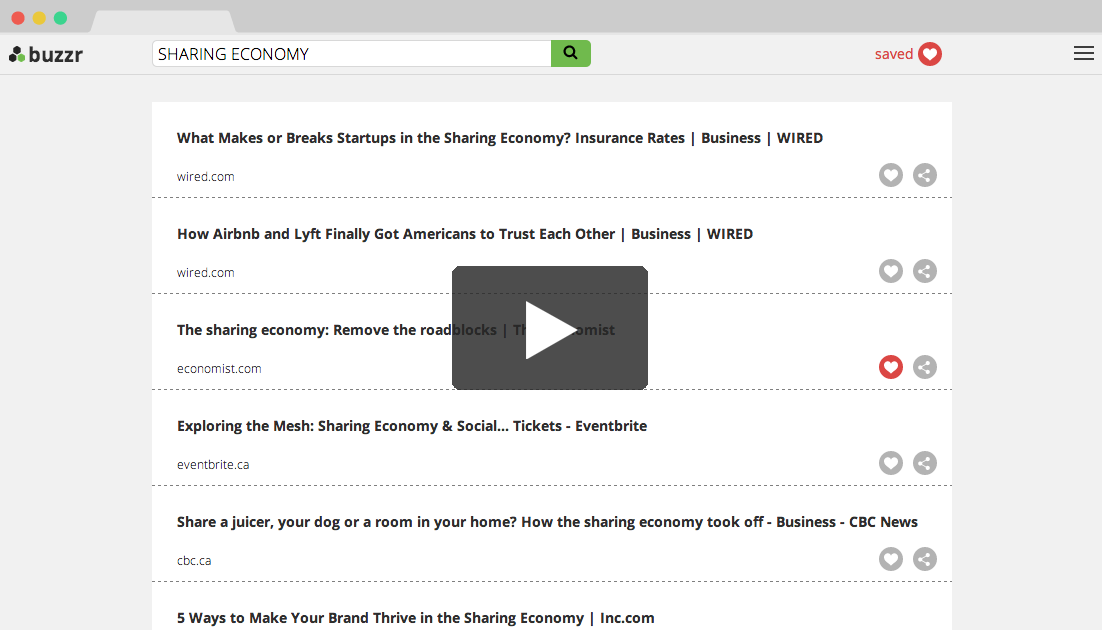
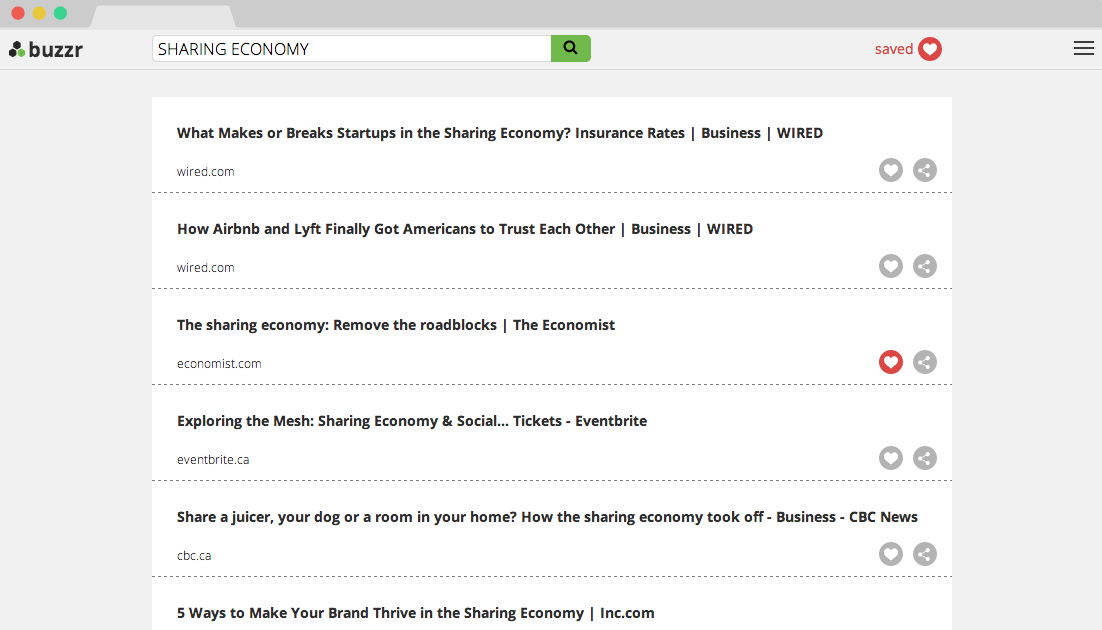
remove link to video

diff --git a/public/js/application.js b/public/js/application.js
@@ -1,1 +1,1 @@
-angular.module("app",["ngResource","ngRoute","angular-loading-bar"]),angular.module("app").config(["$routeProvider","$locationProvider",function(a,b){"use strict";var c={user:{auth:["appAuth",function(a){return a.authorizeLoggedInUserForRoute()}]}};b.html5Mode(!0),a.when("/",{templateUrl:"/partials/pages/landingpage",controller:"appPagesCtrl"}).when("/terms",{templateUrl:"/partials/pages/terms",controller:"appPagesCtrl"}).when("/login",{templateUrl:"/partials/account/login",controller:"appLoginCtrl"}).when("/join",{templateUrl:"/partials/account/join",controller:"appJoinCtrl"}),a.when("/tweet4me",{templateUrl:"/partials/tweet4me/home",controller:"appTweet4meCtrl"}).when("/tweet4me/join",{templateUrl:"/partials/tweet4me/join",controller:"appTweet4meJoinCtrl"}).when("/tweet4me/feed",{templateUrl:"/partials/tweet4me/main",controller:"appTweet4meFeedCtrl"}).when("/tweet4me/pricing",{templateUrl:"/partials/tweet4me/pricing",controller:"appTweet4meCtrl"}),a.when("/buffer",{templateUrl:"/partials/buffer/home",controller:"appBufferCtrl"}).when("/buffer/pricing",{templateUrl:"/partials/buffer/pricing",controller:"appBufferCtrl"}).when("/buffer/failure",{templateUrl:"/partials/buffer/failure",controller:"appBufferCtrl"}).when("/buffer/settings",{templateUrl:"/partials/buffer/settings",controller:"appBufferCtrl"}),a.when("/search",{templateUrl:"/partials/pages/home",controller:"appHomeCtrl"}).when("/:id",{templateUrl:"/partials/main/main",controller:"appMainCtrl"}).when("/account/readlater",{templateUrl:"/partials/readlater/readlater",controller:"appReadlaterCtrl",resolve:c.user}).when("/account/settings",{templateUrl:"/partials/account/settings",controller:"appSettingsCtrl",resolve:c.user})}]),angular.module("app").run(["$rootScope","$location",function(a,b){"use strict";a.$on("$routeChangeSuccess",function(){window.ga("send","pageview",b.path())}),a.$on("$routeChangeError",function(a,c,d,e){"not authorized"===e&&b.path("/")})}]),angular.module("app").factory("AppUser",["$resource","$rootScope",function(a,b){"use strict";var c=a("/api/users/:id",{_id:"@id"},{update:{method:"PUT",isArray:!1}});return c.prototype.isAdmin=function(){return this.roles&&this.roles.indexOf("admin")>-1},c.prototype.addBuzzr=function(a){this.buzzrs&&-1===this.buzzrs.indexOf(a)&&(this.buzzrs.push(a),this.$update(),b.$broadcast("buzzrsChanged"))},c.prototype.removeBuzzr=function(a){var c=this.buzzrs.indexOf(a);c>-1&&(this.buzzrs.splice(c,1),this.$update(),b.$broadcast("buzzrsChanged"))},c.prototype.indexOfSavedLink=function(a){var b=-1;return this.readlater.forEach(function(c,d){c.url===a&&(b=d)}),b},c.prototype.saveLink=function(a){return this.indexOfSavedLink(a.url)>-1?(this.removeSavedLink(a.url),!1):(this.recordActivity("saved",a.url,a.topic),this.readlater.push(a),this.$update(),b.$broadcast("readlaterChanged"),!0)},c.prototype.removeSavedLink=function(a){var c=this.indexOfSavedLink(a);c>-1&&(this.readlater.splice(c,1),this.$update(),b.$broadcast("readlaterChanged"))},c.prototype.removeLink=function(a,c){this.recordActivity("removed",a,c),this.$update(),b.$broadcast("removedLink")},c.prototype.trackView=function(a,b){this.recordActivity("viewed",a,b),this.$update()},c.prototype.trackShare=function(a,b){this.recordActivity("shared",a,b),this.$update()},c.prototype.recordActivity=function(a,b,c){var d=-1;this.activities.forEach(function(a,b){a.topic===c&&(d=b)}),-1===d&&(this.activities.push({topic:c,removed:[],viewed:[],saved:[],shared:[]}),d=0),this.activities[d][a].push(b)},c}]),angular.module("app").factory("appAuth",["$http","$q","appIdentity","AppUser",function(a,b,c,d){"use strict";return{authenticateUser:function(e,f){var g=b.defer();return a.post("/login",{email:e,password:f}).then(function(a){if(a.data.success){var b=new d;angular.extend(b,a.data.user),c.currentUser=b,g.resolve(!0)}else g.resolve(!1)}),g.promise},createUser:function(a){var e=new d(a),f=b.defer();return e.$save().then(function(){c.currentUser=e,f.resolve(!0)},function(a){f.reject(a.data.reason)}),f.promise},updateCurrentUser:function(a){var d=b.defer();return a.$update().then(function(){c.currentUser=a,d.resolve(!0)},function(a){d.reject(a.data.reason)}),d.promise},logoutUser:function(){var d=b.defer();return a.post("/logout",{logout:!0}).then(function(){c.currentUser=void 0,d.resolve(!0)}),d.promise},authorizeCurrentUserForRoute:function(){return c.isAuthorized("admin")?!0:b.reject("not authorized")},authorizeLoggedInUserForRoute:function(){return c.isAuthenticated()?!0:b.reject("not authorized")}}}]),angular.module("app").factory("appIdentity",["$window","AppUser",function(a,b){"use strict";var c;return a.bootstrappedUser&&(c=new b,angular.extend(c,a.bootstrappedUser)),{currentUser:c,isAuthenticated:function(){return!!this.currentUser},isAuthorized:function(a){return!!this.currentUser&&this.currentUser.roles.indexOf(a)>-1}}}]),angular.module("app").controller("appJoinCtrl",["$scope","$location","appIdentity","appAuth","appNotifier",function(a,b,c,d,e){"use strict";a.signup=function(){var c={email:a.email,password:a.password};d.createUser(c).then(function(){b.path("/search")},function(b){e.error(b,a)})}}]),angular.module("app").controller("appLoginCtrl",["$scope","$location","appAuth","appNotifier",function(a,b,c,d){"use strict";a.signin=function(){c.authenticateUser(a.email,a.password).then(function(c){c?b.path("/search"):d.error("email/password combination incorrect",a)})}}]),angular.module("app").controller("appSettingsCtrl",["$scope","$location","$http","appAuth","appIdentity","appNotifier",function(a,b,c,d,e,f){"use strict";a.currentUser=angular.copy(e.currentUser),a.email={valid:e.currentUser.email.match(/^[\S]+@[\S]+\.[\S]+$/)},a.email.valid||(a.currentUser.email=""),a.update=function(){d.updateCurrentUser(a.currentUser).then(function(){return a.email.valid?void f.notify("Your account has been updated",a):b.path("/search")},function(b){f.error(b,a)})}}]),angular.module("app").controller("appAdminAddTweetCtrl",["$scope","$http",function(a,b){"use strict";a.tweet={},a.topics=[],a.t4ms=window.bootstrappedTweet4Mes,a.updateTopics=function(){a.t4ms.forEach(function(b){b.user===a.tweet.email&&(a.topics=b.topics)})},a.showTopic=function(){return!!a.tweet.email},a.showTweetForm=function(){return!!a.tweet.topic},a.addTweet=function(){var c=a.tweet;b.post("/api/tweet4me/"+c.email+"/addTweet",{tweet:c}).then(function(){window.alert("Tweet Added!"),a.tweet.url="",a.tweet.text=""},function(){window.alert("Sorry, something went wrong! Please try again!")})}}]),angular.module("app").controller("appAdminBuzzrsCtrl",["$scope","$http","$window",function(a,b,c){"use strict";a.buzzrs=[],b.get("/api/buzzrs").then(function(b){b.data.buzzrs?a.buzzrs=b.data.buzzrs:c.alert("$http error")})}]),angular.module("app").controller("appAdminErrorsCtrl",["$scope","$http","$window",function(a,b,c){"use strict";a.socketErrors=[],a.titleErrors=[],b.get("/api/errors").then(function(b){b.data.titleErrors?(a.socketErrors=b.data.socketErrors,a.titleErrors=b.data.titleErrors):c.alert("$http error")})}]),angular.module("app").controller("appAdminSendTweet4meCtrl",["$scope","$http",function(a,b){"use strict";a.t4ms=window.bootstrappedTweet4Mes,a.sendEmail=function(){b.post("/api/tweet4me/"+a.email+"/sendEmail",{}).then(function(){window.alert("Email sent!")},function(){window.alert("Sorry, something went wrong! Please try again!")})}}]),angular.module("app").controller("appAdminUsersCtrl",["$scope","AppUser",function(a,b){"use strict";a.users=b.query()}]),angular.module("app").controller("appBufferCtrl",["$scope","appFeedback",function(a,b){"use strict";a.toggleFeedback=function(){b.toggle()}}]),function(){"use strict";angular.module("angular-loading-bar",["chieffancypants.loadingBar"]),angular.module("chieffancypants.loadingBar",[]).config(["$httpProvider",function(a){var b=["$q","$cacheFactory","$timeout","$rootScope","cfpLoadingBar",function(b,c,d,e,f){function g(){d.cancel(i),f.complete(),k=0,j=0}function h(b){var d,e=a.defaults;if("GET"!==b.method||b.cache===!1)return b.cached=!1,!1;d=b.cache===!0&&void 0===e.cache?c.get("$http"):void 0!==e.cache?e.cache:b.cache;var f=void 0!==d?void 0!==d.get(b.url):!1;return void 0!==b.cached&&f!==b.cached?b.cached:(b.cached=f,f)}var i,j=0,k=0,l=f.latencyThreshold;return{request:function(a){return a.ignoreLoadingBar||h(a)||(e.$broadcast("cfpLoadingBar:loading",{url:a.url}),0===j&&(i=d(function(){f.start()},l)),j++,f.set(k/j)),a},response:function(a){return h(a.config)||(k++,e.$broadcast("cfpLoadingBar:loaded",{url:a.config.url}),k>=j?g():f.set(k/j)),a},responseError:function(a){return h(a.config)||(k++,e.$broadcast("cfpLoadingBar:loaded",{url:a.config.url}),k>=j?g():f.set(k/j)),b.reject(a)}}}];a.interceptors.push(b)}]).provider("cfpLoadingBar",function(){this.includeSpinner=!0,this.includeBar=!0,this.latencyThreshold=100,this.startSize=.02,this.parentSelector="body",this.$get=["$document","$timeout","$animate","$rootScope",function(a,b,c,d){function e(){b.cancel(k),q||(d.$broadcast("cfpLoadingBar:started"),q=!0,t&&c.enter(n,m),s&&c.enter(p,m),f(u))}function f(a){if(q){var c=100*a+"%";o.css("width",c),r=a,b.cancel(j),j=b(function(){g()},250)}}function g(){if(!(h()>=1)){var a=0,b=h();a=b>=0&&.25>b?(3*Math.random()+3)/100:b>=.25&&.65>b?3*Math.random()/100:b>=.65&&.9>b?2*Math.random()/100:b>=.9&&.99>b?.005:0;var c=h()+a;f(c)}}function h(){return r}function i(){d.$broadcast("cfpLoadingBar:completed"),f(1),k=b(function(){c.leave(n,function(){r=0,q=!1}),c.leave(p)},500)}var j,k,l=this.parentSelector,m=a.find(l),n=angular.element('<div id="loading-bar"><div class="bar"><div class="peg"></div></div></div>'),o=n.find("div").eq(0),p=angular.element('<div id="loading-bar-spinner"><div class="spinner-icon"></div></div>'),q=!1,r=0,s=this.includeSpinner,t=this.includeBar,u=this.startSize;return{start:e,set:f,status:h,inc:g,complete:i,includeSpinner:this.includeSpinner,latencyThreshold:this.latencyThreshold,parentSelector:this.parentSelector,startSize:this.startSize}}]})}(),angular.module("app").factory("appIsMobile",function(){"use strict";var a={Android:function(){return navigator.userAgent.match(/Android/i)?!0:!1},BlackBerry:function(){return navigator.userAgent.match(/BlackBerry/i)?!0:!1},iOS:function(){return navigator.userAgent.match(/iPhone|iPad|iPod/i)?!0:!1},Windows:function(){return navigator.userAgent.match(/IEMobile/i)?!0:!1},any:function(){return a.Android()||a.BlackBerry()||a.iOS()||a.Windows()}};return a}),angular.module("app").factory("appNotifier",function(){"use strict";return{notify:function(a,b){b.notifier={},b.notifier.notice=a,setTimeout(function(){b.notifier.notice="",b.$digest()},4e3)},error:function(a,b){b.notifier={},b.notifier.error=a,setTimeout(function(){b.notifier.error="",b.$digest()},4e3)}}}),angular.module("app").controller("appSocialHeaderCtrl",["$scope","$location",function(a,b){"use strict";var c=["/","/tweet4me","/tweet4me/pricing","/tweet4me/join","/terms"];a.showSocialHeader=function(){return c.indexOf(b.path())>-1}}]),angular.module("app").factory("appTopics",["$window",function(a){"use strict";var b=[];return a.bootstrappedTopics&&(b=a.bootstrappedTopics),b}]),String.prototype.trunc=function(a){"use strict";return this.length>a?this.substr(0,a-1)+"...":this},angular.module("app").factory("appFeedback",["$rootScope",function(a){"use strict";return{toggle:function(){a.$broadcast("toggleFeedback")}}}]),angular.module("app").controller("appFeedbackCtrl",["$scope","$location","$window","$http","appIdentity","appNotifier",function(a,b,c,d,e,f){"use strict";a.success=!1,a.show=!1,a.feedback={},a.feedback.userAgent=c.navigator.userAgent,e.isAuthenticated()&&(a.feedback.name=e.currentUser.name,a.feedback.email=e.currentUser.email),a.send=function(){a.feedback.currentPath=b.path(),d.post("/api/feedback",a.feedback).then(function(b){b.data.success?a.success=!0:f.error(b.data.err||"unknown error",a)},function(b){f.error("error "+b.status+" occurred - please email help@buzzr.io",a)})},a.toggle=function(){a.show=!a.show},a.$on("toggleFeedback",function(){a.toggle()})}]),angular.module("app").controller("appHeaderCtrl",["$scope","$rootScope","$location","appIdentity","appSidebar",function(a,b,c,d,e){"use strict";a.isLoggedIn=function(){return d.isAuthenticated()&&!d.currentUser.bufferUser},a.toggleSidebar=function(){e.toggle()},b.$on("toggleSidebar",function(){a.open=!a.open,a.$$phase||a.$digest()}),a.showLogo=function(){var a=["/","/search","/login","/tweet4me","/about","/join","/terms"];return-1===a.indexOf(c.path())}}]),angular.module("app").factory("appBuzzr",["$http","$route","appProcessLinks",function(a,b,c){"use strict";function d(a){a.errorMessage="Oh no, Buzzr did not find anything recent on this topic :( Please come back later and try again!",a.status="error"}function e(a){var c=setInterval(function(){a.$apply(function(){a.countDown-=1,a.countDown<=0&&(a.countDown=0,b.reload(),clearInterval(c))})},1e3)}function f(a,b){a.errorMessage=b,a.links=[],a.status="error"}var g={};return g.updateFeed=function(b){a.get("/api/buzzrs/refresh/"+b.searchText.trim()).then(function(a){var g=a.data.links;return a.data.err?void f(b,a.data.err):a.data.updating?(b.status="updating",void e(b)):0===g.length?d(b):(c.process(b,g),void(b.status="feeding"))},function(){f(b,"Sorry, something went wrong! Please try again!")})},g.startFeed=function(b){a.get("/api/buzzrs/"+b.searchText.trim()).then(function(a){var g=a.data.links;if(a.data.err)return void f(b,a.data.err);if(g){if(0===g.length)return d(b);c.process(b,g),b.status="feeding"}else b.status="creating",e(b)},function(){f(b,"Sorry, something went wrong! Please try again!")})},g}]),angular.module("app").controller("appMainCtrl",["$scope","$routeParams","$location","appIdentity","appProcessLinks","appSidebar","appFeedback","appBuzzr",function(a,b,c,d,e,f,g,h){"use strict";a.countDown=18,a.links=[],a.dates=[],a.lang="",a.identity=d,a.searchText=decodeURI(b.id).toLowerCase(),a.status="searching",a.checkStatus=function(b){return a.status===b},a.encode=function(a){return encodeURI(a)},a.newSearch=function(a){if(a){var b=a.toLowerCase().trim();c.path("/"+b)}},a.toggleSidebar=function(){f.toggle()},a.toggleFeedback=function(){g.toggle()},a.getLang=function(b){return a.lang===b},a.triggerSearch=function(){h.startFeed(a)},a.loadMore=function(){a.status="searching",h.updateFeed(a)},a.showLoading=function(){return a.checkStatus("searching")||a.checkStatus("creating")||a.checkStatus("updating")?!0:!1},d.isAuthenticated()&&(d.currentUser.addBuzzr(a.searchText),a.saveLink=function(b){e.saveLink(b,a.searchText)},a.removeLink=function(b){e.removeLink(b,a.searchText)},a.trackView=function(b){d.currentUser.trackView(b,a.searchText)},a.trackShare=function(b){d.currentUser.trackShare(b,a.searchText)}),a.triggerSearch()}]),angular.module("app").factory("appProcessLinks",["appIdentity",function(a){"use strict";function b(a){a.activated&&(a.activated=new Date(a.activated).toLocaleDateString(),h[a.activated]=!0)}function c(a){a.domain=a.url.match(/^https?\:\/\/([^\/?#]+)(?:[\/?#]|$)/i)[1].toLowerCase().replace("www.","")}function d(){var a=[];for(var b in h)h.hasOwnProperty(b)&&a.push(b);return a.reverse()}function e(a){a.removed=!1,i.indexOf(a.url)>-1&&(a.removed=!0)}function f(a){a.saved=!1,j.indexOf(a.url)>-1&&(a.saved=!0)}function g(a){b(a),c(a),f(a),e(a)}var h={},i=[],j=[];return{process:function(b,c){a.currentUser&&a.currentUser.readlater&&(a.currentUser.readlater.forEach(function(a){j.push(a.url)}),a.currentUser.activities.forEach(function(a){a.topic===b.searchText&&(i=a.removed)})),c.forEach(g),b.dates=d(),b.links=c},saveLink:function(b,c){var d={url:b.url,title:b.title,topic:c,activated:Date.now()};b.saved=a.currentUser.saveLink(d)},removeLink:function(b,c){a.currentUser.removeLink(b.url,c),b.removed=!0}}}]),angular.module("app").controller("appHomeCtrl",["$scope","$location","$document","appIdentity","appSidebar","appIsMobile",function(a,b,c,d,e,f){"use strict";if(a.identity=d,a.search=function(){a.searchText&&b.path("/"+a.searchText.trim())},d.isAuthenticated()&&(d.currentUser.email.match(/^[\S]+@[\S]+\.[\S]+$/)||b.path("account/settings")),!f.any()){var g=c[0].getElementById("focus");g.focus()}}]),angular.module("app").controller("appPagesCtrl",["$scope","$http","$location","appFeedback",function(a,b,c,d){"use strict";a.toggleFeedback=function(){d.toggle()},a.toggleVideo=function(){a.showVideo=!a.showVideo}}]),angular.module("app").controller("appReadlaterCtrl",["$scope","appFeedback","appSidebar","appIdentity",function(a,b,c,d){"use strict";a.readlater=d.currentUser.readlater||[],a.empty=function(){return 0===a.readlater.length},a.toggleFeedback=function(){b.toggle()},a.removeLink=function(a){d.currentUser.removeSavedLink(a)},a.$on("readlaterChanged",function(){a.readlater=d.currentUser.readlater})}]),angular.module("app").factory("appSidebar",["$rootScope",function(a){"use strict";var b={};return b.toggle=function(){a.$emit("toggleSidebar")},b}]),angular.module("app").controller("appSidebarCtrl",["$scope","$rootScope","appSidebar","$location","$document","appAuth","appNotifier","appIdentity",function(a,b,c,d,e,f,g,h){"use strict";function i(){a.open&&c.toggle()}var j=angular.element(document.querySelector(".blackout"));a.identity=h,a.setBuzzrs=function(){h.isAuthenticated()&&(a.buzzrs=h.currentUser.buzzrs)},a.encode=function(a){return encodeURI(a)},a.signout=function(){f.logoutUser().then(function(){d.path("/")})},a.removeBuzzr=function(a){h.currentUser.removeBuzzr(a)},a.toggleOpen=function(){j.toggleClass("on"),a.open=!a.open,a.open&&(e.one("click",i),e.one("touch",i)),a.$$phase||a.$digest()},b.$on("toggleSidebar",function(){a.setBuzzrs(),a.toggleOpen()}),a.$on("buzzrsChanged",function(){a.setBuzzrs()}),a.setBuzzrs()}]),angular.module("app").factory("appTweet4me",["$http","$filter",function(a,b){"use strict";function c(){var a=[];for(var b in g)g.hasOwnProperty(b)&&a.push(b);return a.reverse()}function d(a){var c=new Date(a.added);a.added=b("date")(c,"dd MMM yyyy"),g[a.added]=!0}function e(a){d(a)}var f={},g={};return f.processTweets=function(a,b){b.forEach(e),a.dates=c(),a.tweets=b},f.mark=function(b,c,d){a.post("/api/tweet4me/"+b+"/mark",{mark:c,url:d})},f}]),angular.module("app").controller("appTweet4meCtrl",["$scope","$location","appFeedback",function(a,b,c){"use strict";a.toggleFeedback=function(){c.toggle()},a.signup=function(){b.path("/tweet4me/pricing")}}]),angular.module("app").controller("appTweet4meFeedCtrl",["$scope","$routeParams","$http","appTweet4me",function(a,b,c,d){"use strict";a.email=b.user,a.status="loading",a.encode=function(a){return encodeURI(a)},a.ifStatus=function(b){return a.status===b},a.login=function(){a.getTweets()},a.mark=function(b,c){d.mark(a.email,b,c.url),c[b]=!0},a.getTweets=function(){a.status="loading",c.get("/api/tweet4me/"+a.email).then(function(b){var c=b.data.tweets;return 0===c.length?(a.error="Couldn't find your Tweet4me. Is your Email correct?",void(a.status="login")):(d.processTweets(a,c),void(a.status="feeding"))},function(){window.alert("Sorry, something went wrong! Please try again!"),a.status="login"})},a.email?a.getTweets():a.status="login"}]),angular.module("app").controller("appTweet4meJoinCtrl",["$scope","$http","$routeParams",function(a,b,c){"use strict";a.signup=function(){return a.email&&a.topic?(a.processing=!0,void b.post("/tweet4me",{email:a.email,topic:a.topic,plan:c.plan||"startup"}).then(function(b){b.data.success?(a.success=!0,a.error=!1):(a.success=!1,a.error=b.data.error,a.processing=!1)})):(a.success=!1,void(a.error="Make sure you filled out both email and topic"))}}]);
+angular.module("app",["ngResource","ngRoute","angular-loading-bar"]),angular.module("app").config(["$routeProvider","$locationProvider",function(a,b){"use strict";var c={user:{auth:["appAuth",function(a){return a.authorizeLoggedInUserForRoute()}]}};b.html5Mode(!0),a.when("/",{templateUrl:"/partials/pages/landingpage",controller:"appPagesCtrl"}).when("/terms",{templateUrl:"/partials/pages/terms",controller:"appPagesCtrl"}).when("/login",{templateUrl:"/partials/account/login",controller:"appLoginCtrl"}).when("/join",{templateUrl:"/partials/account/join",controller:"appJoinCtrl"}),a.when("/tweet4me",{templateUrl:"/partials/tweet4me/home",controller:"appTweet4meCtrl"}).when("/tweet4me/join",{templateUrl:"/partials/tweet4me/join",controller:"appTweet4meJoinCtrl"}).when("/tweet4me/feed",{templateUrl:"/partials/tweet4me/main",controller:"appTweet4meFeedCtrl"}).when("/tweet4me/pricing",{templateUrl:"/partials/tweet4me/pricing",controller:"appTweet4meCtrl"}),a.when("/buffer",{templateUrl:"/partials/buffer/home",controller:"appBufferCtrl"}).when("/buffer/pricing",{templateUrl:"/partials/buffer/pricing",controller:"appBufferCtrl"}).when("/buffer/failure",{templateUrl:"/partials/buffer/failure",controller:"appBufferCtrl"}).when("/buffer/settings",{templateUrl:"/partials/buffer/settings",controller:"appBufferCtrl"}),a.when("/search",{templateUrl:"/partials/pages/home",controller:"appHomeCtrl"}).when("/:id",{templateUrl:"/partials/main/main",controller:"appMainCtrl"}).when("/account/readlater",{templateUrl:"/partials/readlater/readlater",controller:"appReadlaterCtrl",resolve:c.user}).when("/account/settings",{templateUrl:"/partials/account/settings",controller:"appSettingsCtrl",resolve:c.user})}]),angular.module("app").run(["$rootScope","$location",function(a,b){"use strict";a.$on("$routeChangeSuccess",function(){window.ga("send","pageview",b.path())}),a.$on("$routeChangeError",function(a,c,d,e){"not authorized"===e&&b.path("/")})}]),angular.module("app").factory("AppUser",["$resource","$rootScope",function(a,b){"use strict";var c=a("/api/users/:id",{_id:"@id"},{update:{method:"PUT",isArray:!1}});return c.prototype.isAdmin=function(){return this.roles&&this.roles.indexOf("admin")>-1},c.prototype.addBuzzr=function(a){this.buzzrs&&-1===this.buzzrs.indexOf(a)&&(this.buzzrs.push(a),this.$update(),b.$broadcast("buzzrsChanged"))},c.prototype.removeBuzzr=function(a){var c=this.buzzrs.indexOf(a);c>-1&&(this.buzzrs.splice(c,1),this.$update(),b.$broadcast("buzzrsChanged"))},c.prototype.indexOfSavedLink=function(a){var b=-1;return this.readlater.forEach(function(c,d){c.url===a&&(b=d)}),b},c.prototype.saveLink=function(a){return this.indexOfSavedLink(a.url)>-1?(this.removeSavedLink(a.url),!1):(this.recordActivity("saved",a.url,a.topic),this.readlater.push(a),this.$update(),b.$broadcast("readlaterChanged"),!0)},c.prototype.removeSavedLink=function(a){var c=this.indexOfSavedLink(a);c>-1&&(this.readlater.splice(c,1),this.$update(),b.$broadcast("readlaterChanged"))},c.prototype.removeLink=function(a,c){this.recordActivity("removed",a,c),this.$update(),b.$broadcast("removedLink")},c.prototype.trackView=function(a,b){this.recordActivity("viewed",a,b),this.$update()},c.prototype.trackShare=function(a,b){this.recordActivity("shared",a,b),this.$update()},c.prototype.recordActivity=function(a,b,c){var d=-1;this.activities.forEach(function(a,b){a.topic===c&&(d=b)}),-1===d&&(this.activities.push({topic:c,removed:[],viewed:[],saved:[],shared:[]}),d=0),this.activities[d][a].push(b)},c}]),angular.module("app").factory("appAuth",["$http","$q","appIdentity","AppUser",function(a,b,c,d){"use strict";return{authenticateUser:function(e,f){var g=b.defer();return a.post("/login",{email:e,password:f}).then(function(a){if(a.data.success){var b=new d;angular.extend(b,a.data.user),c.currentUser=b,g.resolve(!0)}else g.resolve(!1)}),g.promise},createUser:function(a){var e=new d(a),f=b.defer();return e.$save().then(function(){c.currentUser=e,f.resolve(!0)},function(a){f.reject(a.data.reason)}),f.promise},updateCurrentUser:function(a){var d=b.defer();return a.$update().then(function(){c.currentUser=a,d.resolve(!0)},function(a){d.reject(a.data.reason)}),d.promise},logoutUser:function(){var d=b.defer();return a.post("/logout",{logout:!0}).then(function(){c.currentUser=void 0,d.resolve(!0)}),d.promise},authorizeCurrentUserForRoute:function(){return c.isAuthorized("admin")?!0:b.reject("not authorized")},authorizeLoggedInUserForRoute:function(){return c.isAuthenticated()?!0:b.reject("not authorized")}}}]),angular.module("app").factory("appIdentity",["$window","AppUser",function(a,b){"use strict";var c;return a.bootstrappedUser&&(c=new b,angular.extend(c,a.bootstrappedUser)),{currentUser:c,isAuthenticated:function(){return!!this.currentUser},isAuthorized:function(a){return!!this.currentUser&&this.currentUser.roles.indexOf(a)>-1}}}]),angular.module("app").controller("appJoinCtrl",["$scope","$location","appIdentity","appAuth","appNotifier",function(a,b,c,d,e){"use strict";a.signup=function(){var c={email:a.email,password:a.password};d.createUser(c).then(function(){b.path("/search")},function(b){e.error(b,a)})}}]),angular.module("app").controller("appLoginCtrl",["$scope","$location","appAuth","appNotifier",function(a,b,c,d){"use strict";a.signin=function(){c.authenticateUser(a.email,a.password).then(function(c){c?b.path("/search"):d.error("email/password combination incorrect",a)})}}]),angular.module("app").controller("appSettingsCtrl",["$scope","$location","$http","appAuth","appIdentity","appNotifier",function(a,b,c,d,e,f){"use strict";a.currentUser=angular.copy(e.currentUser),a.email={valid:e.currentUser.email.match(/^[\S]+@[\S]+\.[\S]+$/)},a.email.valid||(a.currentUser.email=""),a.update=function(){d.updateCurrentUser(a.currentUser).then(function(){return a.email.valid?void f.notify("Your account has been updated",a):b.path("/search")},function(b){f.error(b,a)})}}]),angular.module("app").controller("appAdminAddTweetCtrl",["$scope","$http",function(a,b){"use strict";a.tweet={},a.topics=[],a.t4ms=window.bootstrappedTweet4Mes,a.updateTopics=function(){a.t4ms.forEach(function(b){b.user===a.tweet.email&&(a.topics=b.topics)})},a.showTopic=function(){return!!a.tweet.email},a.showTweetForm=function(){return!!a.tweet.topic},a.addTweet=function(){var c=a.tweet;b.post("/api/tweet4me/"+c.email+"/addTweet",{tweet:c}).then(function(){window.alert("Tweet Added!"),a.tweet.url="",a.tweet.text=""},function(){window.alert("Sorry, something went wrong! Please try again!")})}}]),angular.module("app").controller("appAdminBuzzrsCtrl",["$scope","$http","$window",function(a,b,c){"use strict";a.buzzrs=[],b.get("/api/buzzrs").then(function(b){b.data.buzzrs?a.buzzrs=b.data.buzzrs:c.alert("$http error")})}]),angular.module("app").controller("appAdminErrorsCtrl",["$scope","$http","$window",function(a,b,c){"use strict";a.socketErrors=[],a.titleErrors=[],b.get("/api/errors").then(function(b){b.data.titleErrors?(a.socketErrors=b.data.socketErrors,a.titleErrors=b.data.titleErrors):c.alert("$http error")})}]),angular.module("app").controller("appAdminSendTweet4meCtrl",["$scope","$http",function(a,b){"use strict";a.t4ms=window.bootstrappedTweet4Mes,a.sendEmail=function(){b.post("/api/tweet4me/"+a.email+"/sendEmail",{}).then(function(){window.alert("Email sent!")},function(){window.alert("Sorry, something went wrong! Please try again!")})}}]),angular.module("app").controller("appAdminUsersCtrl",["$scope","AppUser",function(a,b){"use strict";a.users=b.query()}]),angular.module("app").controller("appBufferCtrl",["$scope","appFeedback",function(a,b){"use strict";a.toggleFeedback=function(){b.toggle()}}]),function(){"use strict";angular.module("angular-loading-bar",["chieffancypants.loadingBar"]),angular.module("chieffancypants.loadingBar",[]).config(["$httpProvider",function(a){var b=["$q","$cacheFactory","$timeout","$rootScope","cfpLoadingBar",function(b,c,d,e,f){function g(){d.cancel(i),f.complete(),k=0,j=0}function h(b){var d,e=a.defaults;if("GET"!==b.method||b.cache===!1)return b.cached=!1,!1;d=b.cache===!0&&void 0===e.cache?c.get("$http"):void 0!==e.cache?e.cache:b.cache;var f=void 0!==d?void 0!==d.get(b.url):!1;return void 0!==b.cached&&f!==b.cached?b.cached:(b.cached=f,f)}var i,j=0,k=0,l=f.latencyThreshold;return{request:function(a){return a.ignoreLoadingBar||h(a)||(e.$broadcast("cfpLoadingBar:loading",{url:a.url}),0===j&&(i=d(function(){f.start()},l)),j++,f.set(k/j)),a},response:function(a){return h(a.config)||(k++,e.$broadcast("cfpLoadingBar:loaded",{url:a.config.url}),k>=j?g():f.set(k/j)),a},responseError:function(a){return h(a.config)||(k++,e.$broadcast("cfpLoadingBar:loaded",{url:a.config.url}),k>=j?g():f.set(k/j)),b.reject(a)}}}];a.interceptors.push(b)}]).provider("cfpLoadingBar",function(){this.includeSpinner=!0,this.includeBar=!0,this.latencyThreshold=100,this.startSize=.02,this.parentSelector="body",this.$get=["$document","$timeout","$animate","$rootScope",function(a,b,c,d){function e(){b.cancel(k),q||(d.$broadcast("cfpLoadingBar:started"),q=!0,t&&c.enter(n,m),s&&c.enter(p,m),f(u))}function f(a){if(q){var c=100*a+"%";o.css("width",c),r=a,b.cancel(j),j=b(function(){g()},250)}}function g(){if(!(h()>=1)){var a=0,b=h();a=b>=0&&.25>b?(3*Math.random()+3)/100:b>=.25&&.65>b?3*Math.random()/100:b>=.65&&.9>b?2*Math.random()/100:b>=.9&&.99>b?.005:0;var c=h()+a;f(c)}}function h(){return r}function i(){d.$broadcast("cfpLoadingBar:completed"),f(1),k=b(function(){c.leave(n,function(){r=0,q=!1}),c.leave(p)},500)}var j,k,l=this.parentSelector,m=a.find(l),n=angular.element('<div id="loading-bar"><div class="bar"><div class="peg"></div></div></div>'),o=n.find("div").eq(0),p=angular.element('<div id="loading-bar-spinner"><div class="spinner-icon"></div></div>'),q=!1,r=0,s=this.includeSpinner,t=this.includeBar,u=this.startSize;return{start:e,set:f,status:h,inc:g,complete:i,includeSpinner:this.includeSpinner,latencyThreshold:this.latencyThreshold,parentSelector:this.parentSelector,startSize:this.startSize}}]})}(),angular.module("app").factory("appIsMobile",function(){"use strict";var a={Android:function(){return navigator.userAgent.match(/Android/i)?!0:!1},BlackBerry:function(){return navigator.userAgent.match(/BlackBerry/i)?!0:!1},iOS:function(){return navigator.userAgent.match(/iPhone|iPad|iPod/i)?!0:!1},Windows:function(){return navigator.userAgent.match(/IEMobile/i)?!0:!1},any:function(){return a.Android()||a.BlackBerry()||a.iOS()||a.Windows()}};return a}),angular.module("app").factory("appNotifier",function(){"use strict";return{notify:function(a,b){b.notifier={},b.notifier.notice=a,setTimeout(function(){b.notifier.notice="",b.$digest()},4e3)},error:function(a,b){b.notifier={},b.notifier.error=a,setTimeout(function(){b.notifier.error="",b.$digest()},4e3)}}}),angular.module("app").controller("appSocialHeaderCtrl",["$scope","$location",function(a,b){"use strict";var c=["/","/tweet4me","/tweet4me/pricing","/tweet4me/join","/terms"];a.showSocialHeader=function(){return c.indexOf(b.path())>-1}}]),angular.module("app").factory("appTopics",["$window",function(a){"use strict";var b=[];return a.bootstrappedTopics&&(b=a.bootstrappedTopics),b}]),String.prototype.trunc=function(a){"use strict";return this.length>a?this.substr(0,a-1)+"...":this},angular.module("app").factory("appFeedback",["$rootScope",function(a){"use strict";return{toggle:function(){a.$broadcast("toggleFeedback")}}}]),angular.module("app").controller("appFeedbackCtrl",["$scope","$location","$window","$http","appIdentity","appNotifier",function(a,b,c,d,e,f){"use strict";a.success=!1,a.show=!1,a.feedback={},a.feedback.userAgent=c.navigator.userAgent,e.isAuthenticated()&&(a.feedback.name=e.currentUser.name,a.feedback.email=e.currentUser.email),a.send=function(){a.feedback.currentPath=b.path(),d.post("/api/feedback",a.feedback).then(function(b){b.data.success?a.success=!0:f.error(b.data.err||"unknown error",a)},function(b){f.error("error "+b.status+" occurred - please email help@buzzr.io",a)})},a.toggle=function(){a.show=!a.show},a.$on("toggleFeedback",function(){a.toggle()})}]),angular.module("app").controller("appHeaderCtrl",["$scope","$rootScope","$location","appIdentity","appSidebar",function(a,b,c,d,e){"use strict";a.isLoggedIn=function(){return d.isAuthenticated()&&!d.currentUser.bufferUser},a.toggleSidebar=function(){e.toggle()},b.$on("toggleSidebar",function(){a.open=!a.open,a.$$phase||a.$digest()}),a.showLogo=function(){var a=["/","/search","/login","/tweet4me","/about","/join","/terms"];return-1===a.indexOf(c.path())}}]),angular.module("app").factory("appBuzzr",["$http","$route","appProcessLinks",function(a,b,c){"use strict";function d(a){a.errorMessage="Oh no, Buzzr did not find anything recent on this topic :( Please come back later and try again!",a.status="error"}function e(a){var c=setInterval(function(){a.$apply(function(){a.countDown-=1,a.countDown<=0&&(a.countDown=0,b.reload(),clearInterval(c))})},1e3)}function f(a,b){a.errorMessage=b,a.links=[],a.status="error"}var g={};return g.updateFeed=function(b){a.get("/api/buzzrs/refresh/"+b.searchText.trim()).then(function(a){var g=a.data.links;return a.data.err?void f(b,a.data.err):a.data.updating?(b.status="updating",void e(b)):0===g.length?d(b):(c.process(b,g),void(b.status="feeding"))},function(){f(b,"Sorry, something went wrong! Please try again!")})},g.startFeed=function(b){a.get("/api/buzzrs/"+b.searchText.trim()).then(function(a){var g=a.data.links;if(a.data.err)return void f(b,a.data.err);if(g){if(0===g.length)return d(b);c.process(b,g),b.status="feeding"}else b.status="creating",e(b)},function(){f(b,"Sorry, something went wrong! Please try again!")})},g}]),angular.module("app").controller("appMainCtrl",["$scope","$routeParams","$location","appIdentity","appProcessLinks","appSidebar","appFeedback","appBuzzr",function(a,b,c,d,e,f,g,h){"use strict";a.countDown=18,a.links=[],a.dates=[],a.lang="",a.identity=d,a.searchText=decodeURI(b.id).toLowerCase(),a.status="searching",a.checkStatus=function(b){return a.status===b},a.encode=function(a){return encodeURI(a)},a.newSearch=function(a){if(a){var b=a.toLowerCase().trim();c.path("/"+b)}},a.toggleSidebar=function(){f.toggle()},a.toggleFeedback=function(){g.toggle()},a.getLang=function(b){return a.lang===b},a.triggerSearch=function(){h.startFeed(a)},a.loadMore=function(){a.status="searching",h.updateFeed(a)},a.showLoading=function(){return a.checkStatus("searching")||a.checkStatus("creating")||a.checkStatus("updating")?!0:!1},d.isAuthenticated()&&(d.currentUser.addBuzzr(a.searchText),a.saveLink=function(b){e.saveLink(b,a.searchText)},a.removeLink=function(b){e.removeLink(b,a.searchText)},a.trackView=function(b){d.currentUser.trackView(b,a.searchText)},a.trackShare=function(b){d.currentUser.trackShare(b,a.searchText)}),a.triggerSearch()}]),angular.module("app").factory("appProcessLinks",["appIdentity",function(a){"use strict";function b(a){a.activated&&(a.activated=new Date(a.activated).toLocaleDateString(),h[a.activated]=!0)}function c(a){a.domain=a.url.match(/^https?\:\/\/([^\/?#]+)(?:[\/?#]|$)/i)[1].toLowerCase().replace("www.","")}function d(){var a=[];for(var b in h)h.hasOwnProperty(b)&&a.push(b);return a.reverse()}function e(a){a.removed=!1,i.indexOf(a.url)>-1&&(a.removed=!0)}function f(a){a.saved=!1,j.indexOf(a.url)>-1&&(a.saved=!0)}function g(a){b(a),c(a),f(a),e(a)}var h={},i=[],j=[];return{process:function(b,c){a.currentUser&&a.currentUser.readlater&&(a.currentUser.readlater.forEach(function(a){j.push(a.url)}),a.currentUser.activities.forEach(function(a){a.topic===b.searchText&&(i=a.removed)})),c.forEach(g),b.dates=d(),b.links=c},saveLink:function(b,c){var d={url:b.url,title:b.title,topic:c,activated:Date.now()};b.saved=a.currentUser.saveLink(d)},removeLink:function(b,c){a.currentUser.removeLink(b.url,c),b.removed=!0}}}]),angular.module("app").controller("appHomeCtrl",["$scope","$location","$document","appIdentity","appSidebar","appIsMobile",function(a,b,c,d,e,f){"use strict";if(a.identity=d,a.search=function(){a.searchText&&b.path("/"+a.searchText.trim())},d.isAuthenticated()&&(d.currentUser.email.match(/^[\S]+@[\S]+\.[\S]+$/)||b.path("account/settings")),!f.any()){var g=c[0].getElementById("focus");g.focus()}}]),angular.module("app").controller("appPagesCtrl",["$scope","$http","$location","appFeedback",function(a,b,c,d){"use strict";a.toggleFeedback=function(){d.toggle()},a.toggleVideo=function(){}}]),angular.module("app").controller("appReadlaterCtrl",["$scope","appFeedback","appSidebar","appIdentity",function(a,b,c,d){"use strict";a.readlater=d.currentUser.readlater||[],a.empty=function(){return 0===a.readlater.length},a.toggleFeedback=function(){b.toggle()},a.removeLink=function(a){d.currentUser.removeSavedLink(a)},a.$on("readlaterChanged",function(){a.readlater=d.currentUser.readlater})}]),angular.module("app").factory("appSidebar",["$rootScope",function(a){"use strict";var b={};return b.toggle=function(){a.$emit("toggleSidebar")},b}]),angular.module("app").controller("appSidebarCtrl",["$scope","$rootScope","appSidebar","$location","$document","appAuth","appNotifier","appIdentity",function(a,b,c,d,e,f,g,h){"use strict";function i(){a.open&&c.toggle()}var j=angular.element(document.querySelector(".blackout"));a.identity=h,a.setBuzzrs=function(){h.isAuthenticated()&&(a.buzzrs=h.currentUser.buzzrs)},a.encode=function(a){return encodeURI(a)},a.signout=function(){f.logoutUser().then(function(){d.path("/")})},a.removeBuzzr=function(a){h.currentUser.removeBuzzr(a)},a.toggleOpen=function(){j.toggleClass("on"),a.open=!a.open,a.open&&(e.one("click",i),e.one("touch",i)),a.$$phase||a.$digest()},b.$on("toggleSidebar",function(){a.setBuzzrs(),a.toggleOpen()}),a.$on("buzzrsChanged",function(){a.setBuzzrs()}),a.setBuzzrs()}]),angular.module("app").factory("appTweet4me",["$http","$filter",function(a,b){"use strict";function c(){var a=[];for(var b in g)g.hasOwnProperty(b)&&a.push(b);return a.reverse()}function d(a){var c=new Date(a.added);a.added=b("date")(c,"dd MMM yyyy"),g[a.added]=!0}function e(a){d(a)}var f={},g={};return f.processTweets=function(a,b){b.forEach(e),a.dates=c(),a.tweets=b},f.mark=function(b,c,d){a.post("/api/tweet4me/"+b+"/mark",{mark:c,url:d})},f}]),angular.module("app").controller("appTweet4meCtrl",["$scope","$location","appFeedback",function(a,b,c){"use strict";a.toggleFeedback=function(){c.toggle()},a.signup=function(){b.path("/tweet4me/pricing")}}]),angular.module("app").controller("appTweet4meFeedCtrl",["$scope","$routeParams","$http","appTweet4me",function(a,b,c,d){"use strict";a.email=b.user,a.status="loading",a.encode=function(a){return encodeURI(a)},a.ifStatus=function(b){return a.status===b},a.login=function(){a.getTweets()},a.mark=function(b,c){d.mark(a.email,b,c.url),c[b]=!0},a.getTweets=function(){a.status="loading",c.get("/api/tweet4me/"+a.email).then(function(b){var c=b.data.tweets;return 0===c.length?(a.error="Couldn't find your Tweet4me. Is your Email correct?",void(a.status="login")):(d.processTweets(a,c),void(a.status="feeding"))},function(){window.alert("Sorry, something went wrong! Please try again!"),a.status="login"})},a.email?a.getTweets():a.status="login"}]),angular.module("app").controller("appTweet4meJoinCtrl",["$scope","$http","$routeParams",function(a,b,c){"use strict";a.signup=function(){return a.email&&a.topic?(a.processing=!0,void b.post("/tweet4me",{email:a.email,topic:a.topic,plan:c.plan||"startup"}).then(function(b){b.data.success?(a.success=!0,a.error=!1):(a.success=!1,a.error=b.data.error,a.processing=!1)})):(a.success=!1,void(a.error="Make sure you filled out both email and topic"))}}]);

diff --git a/server/config/routes.js b/server/config/routes.js
@@ -32,9 +32,6 @@ module.exports = function (app) {
 
   app.get('/account/readlater', pages('main'));
   app.get('/account/settings',  pages('main'));
-
-  app.get('/:id', pages('main'));
-
   
   // VIEW PARTIALS
   app.get('/partials/*', function (req, res) {
@@ -60,6 +57,9 @@ module.exports = function (app) {
   app.get( '/auth/buffer/callback',   auth.bufferCallback);
   app.post('/logout',                 auth.logout);
   app.get( '/logout',                 auth.logout);
+  
+  // SEARCH
+  app.get('/:id', pages('main'));
 
   // ADMIN
   app.get('/admin/*',        auth.requiresRole('admin'), admin.get);

diff --git a/public/js/admin.js b/public/js/admin.js
@@ -1085,7 +1085,7 @@ angular.module('app').controller('appPagesCtrl', function ($scope, $http, $locat
   };
 
   $scope.toggleVideo = function() {
-    $scope.showVideo = !$scope.showVideo;
+    //$scope.showVideo = !$scope.showVideo;
   };
 });
 angular.module('app').controller('appReadlaterCtrl', function ($scope, appFeedback, appSidebar, appIdentity) {

diff --git a/app/pages/appPagesCtrl.js b/app/pages/appPagesCtrl.js
@@ -40,6 +40,6 @@ angular.module('app').controller('appPagesCtrl', function ($scope, $http, $locat
   };
 
   $scope.toggleVideo = function() {
-    $scope.showVideo = !$scope.showVideo;
+    //$scope.showVideo = !$scope.showVideo;
   };
 });
